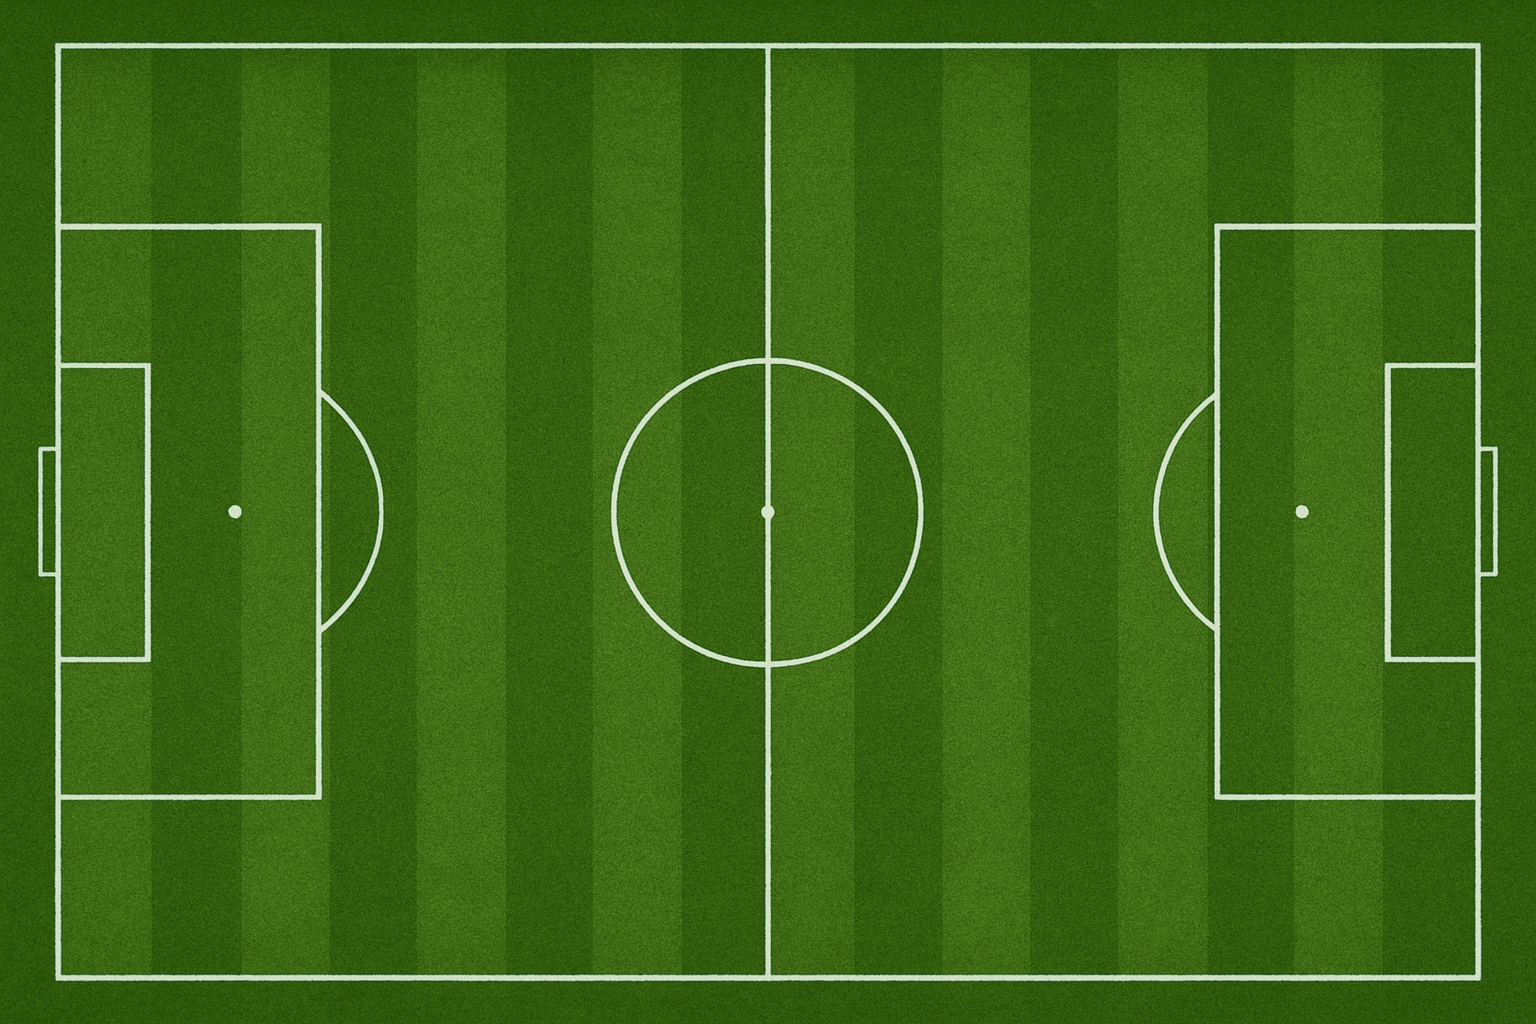
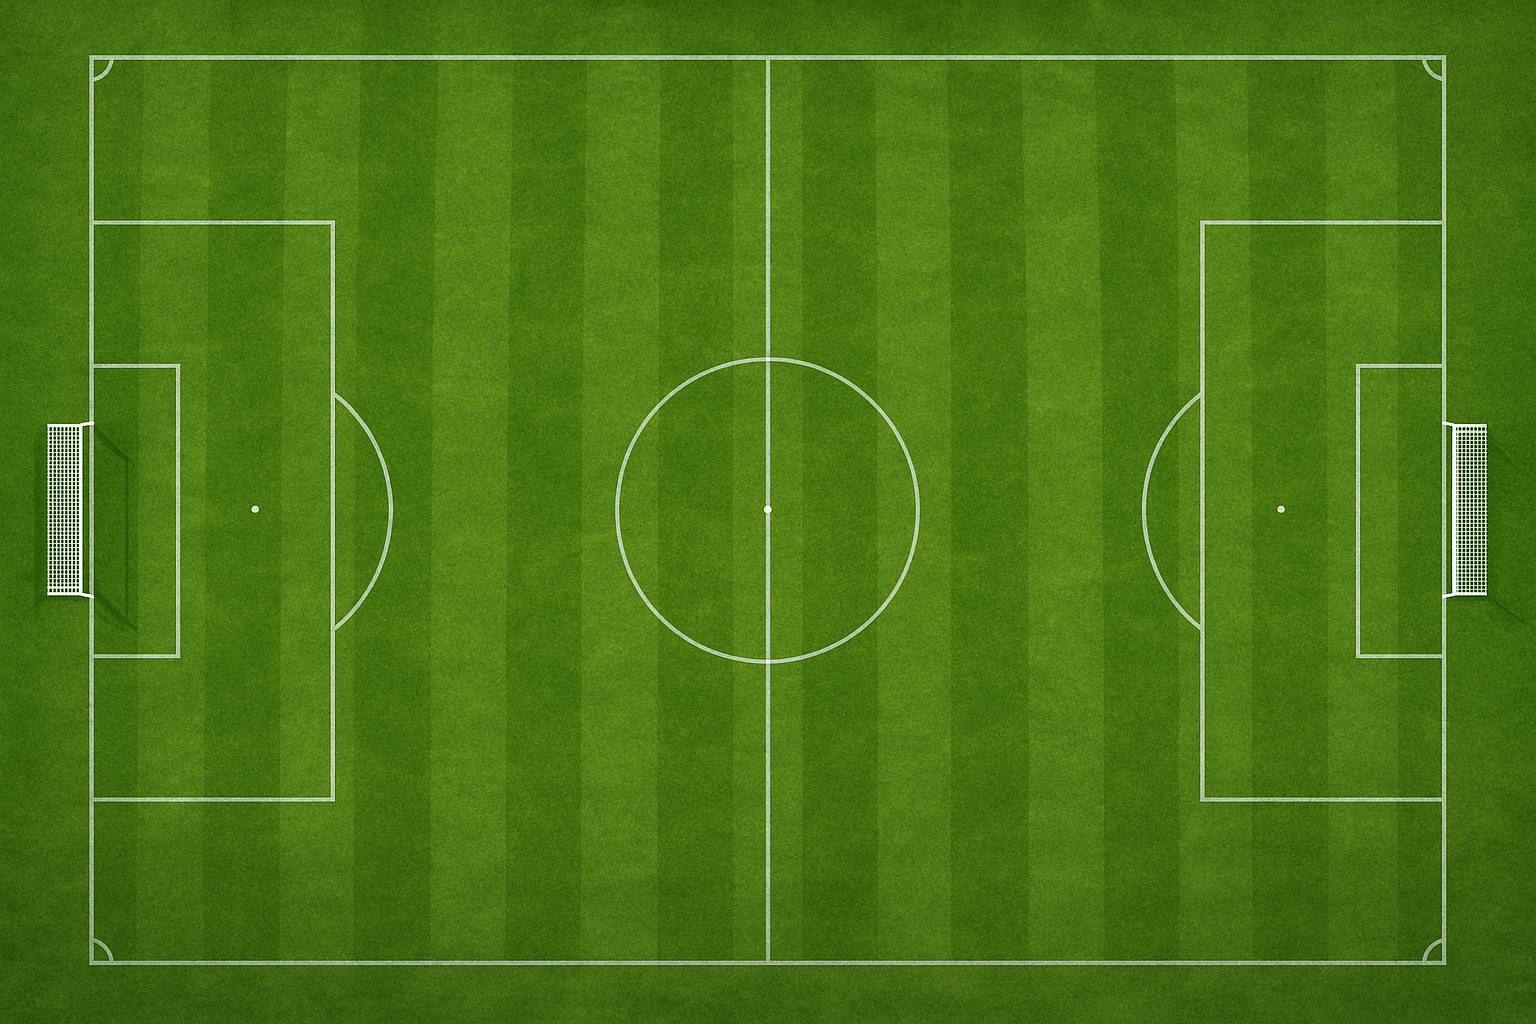
Nets added but goal detection is buggy

Changed region(s): [[0.0, 0.0, 1.0, 0.9688], [0.875, 0.6875, 0.9062, 0.7188], [0.7812, 0.8438, 0.8125, 0.875]]

diff --git a/Net.py b/Net.py
@@ -1,0 +1,51 @@
+import pygame
+from Ball import Ball
+
+class Net(pygame.sprite.Sprite):
+    
+    sizeX = 22
+    sizeY = 98
+    posY  = 250
+    leftPosX  = 26
+    rightPosX = 754
+
+    def __init__(self, side:str):
+        super().__init__()  # initialize the base Sprite
+        # load and store the image
+        if (side.lower() == "left"):
+            self.rect = pygame.Rect(Net.leftPosX, Net.posY, Net.sizeX, Net.sizeY)
+        elif (side.lower() == "right"):
+            self.rect = pygame.Rect(Net.rightPosX, Net.posY, Net.sizeX, Net.sizeY)
+        self.image = pygame.Surface((0, 0), pygame.SRCALPHA)
+        self.image.fill((0, 0, 0, 0))
+        self.others = []
+        self.goalCounter = 0
+
+    def update(self, dt):
+        for sp in pygame.sprite.spritecollide(self, self.others, dokill=False):
+            if isinstance(sp, Ball):
+                if (self.goal(sp)):
+                    self.goalCounter += 1
+                    sp.resetBall()
+
+    def setOtherSprites(self, sprites:pygame.sprite.Group):
+        self.others = sprites.copy()
+        self.others.remove(self)
+
+    def goal(self, ball:Ball):
+        ballUpperRightX = ball.rect.x + ball.rect.width
+        ballUpperRightY = ball.rect.y
+        ballLowerRightY = ball.rect.y + ball.rect.height
+        netUpperRightX  = self.rect.x + self.rect.width 
+        netUpperRightY  = self.rect.y
+        netLowerRightX  = self.rect.y + self.rect.height
+        
+        # check if the ball is fully in the net
+        if ((netUpperRightX > ballUpperRightX) 
+            and self.rect.x < ball.rect.x
+            and netUpperRightY < ballUpperRightY
+            and netLowerRightX > ballLowerRightY):
+            return True  
+        return False
+    
+    

diff --git a/Ball.py b/Ball.py
@@ -1,8 +1,8 @@
 import pygame
 
 class Ball(pygame.sprite.Sprite):
-    sizeX = 32
-    sizeY = 32
+    sizeX = 14
+    sizeY = 14
     shotSpeed = 300
     deceleration = 8
     
@@ -17,8 +17,20 @@ class Ball(pygame.sprite.Sprite):
         self.movement.x = 0
         self.movement.y = 0
         self.actualSpeed = 0
+        self.mask = pygame.mask.from_surface(self.image)
+        self.startX = pos[0]
+        self.startY = pos[1]
+        self.resetWanted = False
 
     def update(self, dt):
+        if (self.resetWanted):
+            self.rect.move(self.startX, self.startY)
+            self.actualSpeed = 0
+            self.movement.x = 0
+            self.movement.y = 0
+            self.resetWanted = False
+            return
+
         # normalize diagonal movement
         if (self.movement.x != 0 or self.movement.y != 0):
             self.movement = self.movement.normalize()
@@ -36,5 +48,9 @@ class Ball(pygame.sprite.Sprite):
             self.actualSpeed = 0
             self.movement.x = 0
             self.movement.y = 0
+    
+    def resetBall(self):
+        self.resetWanted = True
+        
 
         

diff --git a/footballgame.py b/footballgame.py
@@ -1,6 +1,7 @@
 import pygame
 from Player import Player
 from Ball import Ball
+from Net import Net
 
 def main():
     # Initialize Pygame
@@ -17,13 +18,16 @@ def main():
     p1 = Player("images/Ronaldo.png", (100, 100))
     p2 = Player("images/Messi.png",   (400, 400))
     p2.setKeys(pygame.K_w, pygame.K_s, pygame.K_a, pygame.K_d, pygame.K_SPACE)
-
     ball = Ball("images/ball.png", (screen.get_rect().centerx, screen.get_rect().centery))
+    leftNet  = Net("left")
+    rightNet = Net("right")
 
-    sprites = pygame.sprite.Group(p1, p2, ball)
-
+    sprites = pygame.sprite.Group(p1, p2, ball, leftNet, rightNet)
+    
     p1.setOtherSprites(sprites)
     p2.setOtherSprites(sprites)
+    leftNet.setOtherSprites(sprites)
+    rightNet.setOtherSprites(sprites)
 
     screen.blit(footballField, (0,0))
 

diff --git a/Player.py b/Player.py
@@ -3,8 +3,8 @@ from Ball import Ball
 import copy
 
 class Player(pygame.sprite.Sprite):
-    sizeX = 60
-    sizeY = 82
+    sizeX = 30
+    sizeY = 41
 
     hasBallSpeedFactor = 0.8
 
